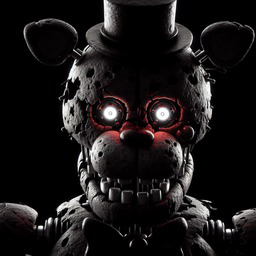
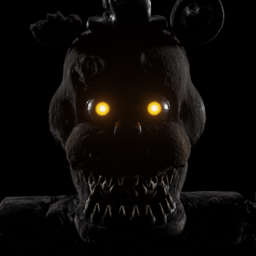
Version 1.0.1

diff --git a/src/Freddles/FreddlesAi.cs b/src/Freddles/FreddlesAi.cs
@@ -15,19 +15,21 @@ namespace NightmareFreddy.Freddles;
 
 public class FreddlesAi : EnemyAI
 {
+    
+    [Header("Material Handler!")]
     public Material endoMaterial;
+    private Material copiedEndoMaterial;
     public Material coverMaterial;
+    private Material copiedCoverMaterial;
+    public SkinnedMeshRenderer FreddlesRenderer;
     [Header("Audio")] 
     public AudioClip glitchProj;
     public AudioClip paranoidStep;
-
-
     [NonSerialized] 
     public Vector3 destination;
 
     [NonSerialized] 
     public bool arrived;
-    
     private bool sittingOrLying;
     private int burnTick;
     private int currentBurnProgress;
@@ -44,7 +46,21 @@ public class FreddlesAi : EnemyAI
 
     public void Awake()
     {
-        
+        if (endoMaterial != null)
+        {
+            copiedEndoMaterial = new Material(endoMaterial);
+        }
+
+        if (coverMaterial != null)
+        {
+            copiedCoverMaterial = new Material(coverMaterial);
+
+        }
+        FreddlesRenderer.materials =
+        [
+            copiedCoverMaterial,
+            copiedEndoMaterial
+        ];
     }
 
     public override void Start()
@@ -140,8 +156,8 @@ public class FreddlesAi : EnemyAI
                     PlayAnimationClientRpc("Idle",false);
 
                 }
+
                 SetDestinationToPosition(destination);
-                
                 if (Vector3.Distance(transform.position, destination) <1f)
                 {
                     ModifyMaterialClientRpc(0);
@@ -160,15 +176,35 @@ public class FreddlesAi : EnemyAI
                     PlayAnimationClientRpc("Idle",true);
 
                 }
+
+                if (copiedEndoMaterial.GetFloat("_Dissolve") == 0)
+                {
+                    ModifyMaterialClientRpc(0);
+                    if (IsHost)
+                    {
+                        PlayGlitchClientRpc(false);
+                    }
+                }
                 if (currentBurnProgress > 0)
                 {
                     currentBurnProgress -= 1;
                     ModifyMaterialBasedOnBurnProgress();
                 }
+                if (CheckIfFlashedAt())
+                {
+                    if (IsHost)
+                    {
+                        PlayGlitchClientRpc(true);
+                    }
+                    SwitchCurrentBehaviourClientRpc((int)State.TrueBurn);
+                    agent.ResetPath();
+                }
+                
                 if (!CheckIfLookedAt())
                 {  
                     SwitchCurrentBehaviourClientRpc((int)State.Running);
                 }
+                
                 break;
             case (int)State.Idle :
                 arrived = true;
@@ -194,7 +230,7 @@ public class FreddlesAi : EnemyAI
                         }
                     }
                 }
-                if (endoMaterial.GetFloat("_Dissolve") == 0)
+                if (copiedEndoMaterial.GetFloat("_Dissolve") == 0)
                 {
                     ModifyMaterialClientRpc(0);
                     if (IsHost)
@@ -236,8 +272,14 @@ public class FreddlesAi : EnemyAI
                 }
                 else
                 {
-                    
-                    SwitchCurrentBehaviourClientRpc((int)State.Idle);
+                    if (arrived)
+                    {
+                        SwitchCurrentBehaviourClientRpc((int)State.Idle);
+                    }
+                    else
+                    {
+                        SwitchCurrentBehaviourClientRpc((int)State.LookedAt);
+                    }
                 }
                 break;
             case (int)State.Aggressive :
@@ -324,8 +366,8 @@ public class FreddlesAi : EnemyAI
     {
         if (x < 1.01f && x >= 0.0f)
         {
-            endoMaterial.SetFloat("_Dissolve",x);
-            coverMaterial.SetFloat("Vector1_FEFF47F1",x);
+            copiedEndoMaterial.SetFloat("_Dissolve",x);
+            copiedCoverMaterial.SetFloat("Vector1_FEFF47F1",x);
         }
         
     }
@@ -410,6 +452,4 @@ public class FreddlesAi : EnemyAI
     {
         creatureAnimator.SetBool(name, value);
     }
-    
-    
 }

diff --git a/src/NightmareFreddy/NightmareFreddyAi.cs b/src/NightmareFreddy/NightmareFreddyAi.cs
@@ -42,6 +42,9 @@ public class NightmareFreddyAi : EnemyAI
     private float animationSpeedAttack;
     private bool wasRunning;
     private int lastBeforeAttack;
+    [Header("Head rotation stuff")]
+    public Transform freddyStare; 
+
     enum State {
         Hidden,
         Spawning,
@@ -64,11 +67,6 @@ public class NightmareFreddyAi : EnemyAI
 
 
         SetDestinationToPosition(StartOfRound.Instance.shipInnerRoomBounds.transform.position);
-        
-        
-        
-        
-        
         
         int attempts = 0;
         destination = Vector3.zero;
@@ -106,6 +104,15 @@ public class NightmareFreddyAi : EnemyAI
         SwitchToBehaviourStateClientRpc(0);
         
     }
+
+    private void LateUpdate()
+    {
+        if (targetPlayer != null)
+        {
+            freddyStare.position = targetPlayer.transform.position;
+        }
+    }
+
     public static Vector3 GetRandomPointInCollider(Collider collider)
     {
         // Get bounds of the collider
@@ -131,6 +138,7 @@ public class NightmareFreddyAi : EnemyAI
         }
     }
     
+
     public override void DoAIInterval()
     {
         base.DoAIInterval();
@@ -191,7 +199,7 @@ public class NightmareFreddyAi : EnemyAI
                 {
                     SpawnNewFreddle();
                 }
-                if (RandomNumberGenerator.GetInt32(100) == 1)
+                if (RandomNumberGenerator.GetInt32(125) == 1)
                 {
                     SwitchToBehaviourStateServerRpc((int)State.Running);
                     PlayEuhEuhClientRpc();
@@ -204,6 +212,11 @@ public class NightmareFreddyAi : EnemyAI
                 if (RandomNumberGenerator.GetInt32(100) <= 1)
                 {
                     SpawnNewFreddle();
+                }
+                if (RandomNumberGenerator.GetInt32(100) == 1)
+                {
+                    SwitchToBehaviourStateServerRpc((int)State.Walking);
+                    PlayEuhEuhClientRpc();
                 }
                 SetDestinationToPosition(targetPlayer.transform.position);
                 CheckIfPlayerHittableServerRpc();
@@ -690,5 +703,13 @@ public class NightmareFreddyAi : EnemyAI
             }
         }
 
+    }
+
+    public override void OnDestroy()
+    {
+        base.OnDestroy();
+        endoSkeleton.SetFloat("_Dissolve", 1);
+        endoSkeleton.SetFloat("_Strenght",0);
+        exoSkeleton.SetFloat("_Dissolve", 1);
     }
 }

diff --git a/src/Configurations/Config.cs b/src/Configurations/Config.cs
@@ -22,7 +22,7 @@ public class Config :SyncedInstance<Config>
         NUMBER_FREDDLES_PHASE_2 = cfg.Bind("Difficulty", "Freddles before Freddy spaw", 6,
             "The number of unmoving Freddles before Freddy spawns"
         );
-        POURCENTAGE_SPAWN = cfg.Bind("Difficulty", "Change for Freddles to spawn", 125,
+        POURCENTAGE_SPAWN = cfg.Bind("Difficulty", "Change for Freddles to spawn", 150,
             "THe higher the number, the less change for the Freddles to spawn every 0.2 seconds"
         ); 
         DAMAGE_FREDDLES = cfg.Bind("Difficulty", "Damage Freddles Deal to you", 10,

diff --git a/Thunderstore/CHANGELOG.md b/Thunderstore/CHANGELOG.md
@@ -1,2 +1,7 @@
 ## 1.0.0
 - Initial release
+## 1.0.1
+- Fixed a bug where flashing a Freddle changed the texture for all the Freddles
+- Changed intended feature : Freddles that have not reached their designated will burn to death after reaching it
+- Added Dynamic animation for Freddy to look at you, on his leg, and torso
+- Added Better rendering of Freddy
